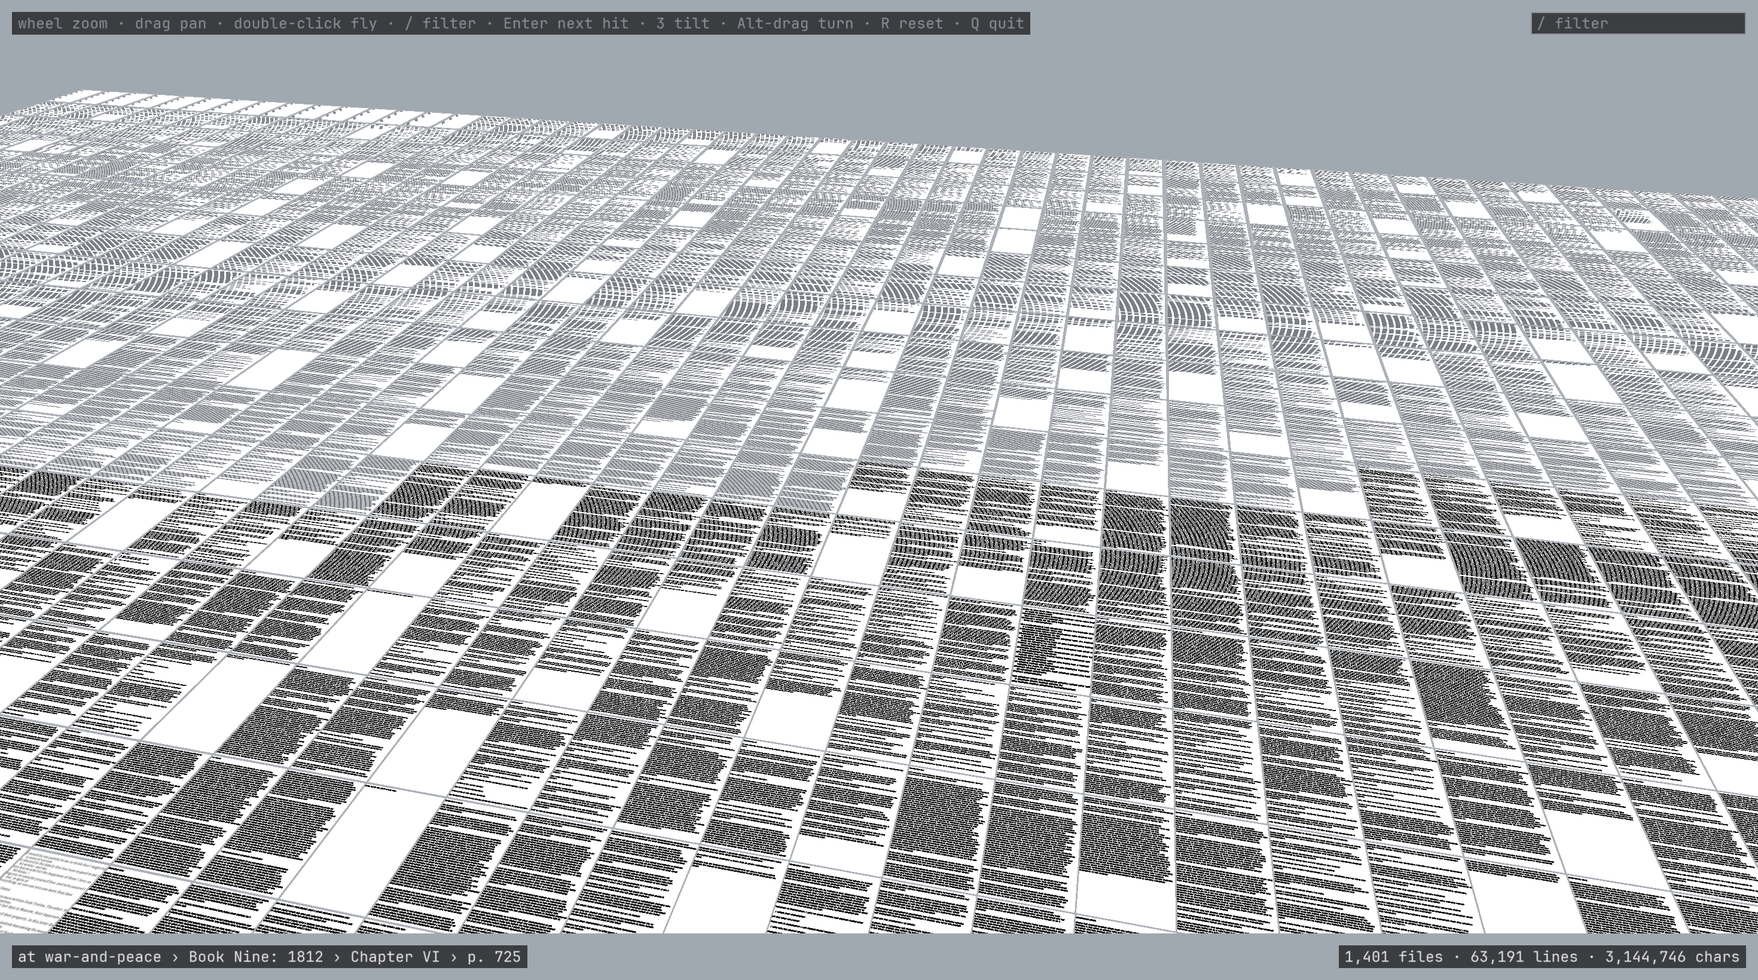
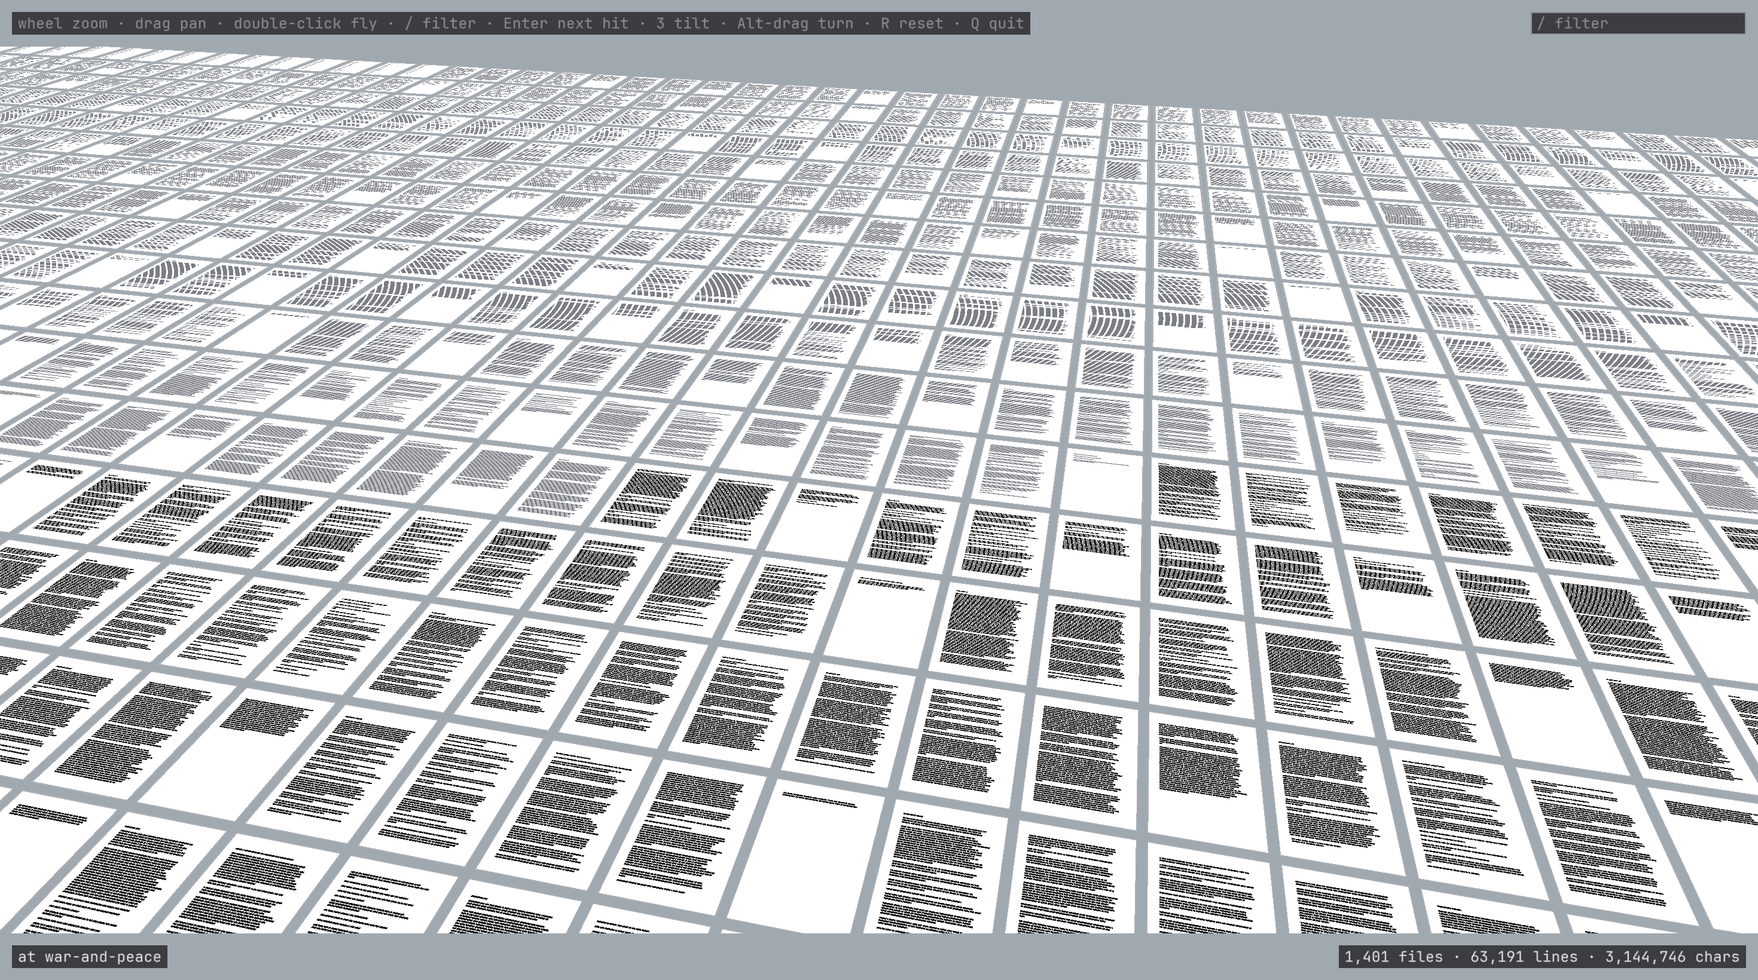
A book's pages sit in gutters and carry margins, as Dobbie's grid does
Every page of the flow grid sits in a gutter of 8 percent of its cell's width, and its text block is the page inset by a tenth of its width and 8 percent of its height; the page itself stays white. The layout writes the text block as file_text, the file itself for code, and the viewer's hover reads columns from it.

diff --git a/atlas_layout.py b/atlas_layout.py
@@ -27,6 +27,8 @@ import numpy as np
 WORLD_W = 1600.0
 PAD_FRAC, PAD_MIN, PAD_MAX = 0.015, 0.05, 4.0
 PAD_LINES, PAD_MIN_LINES = 2.0, 0.01   # a treemap directory's padding: about two of its own lines
+PAGE_GAP = 0.08            # a book's gutter between pages, as a fraction of the cell width, as Dobbie's grid
+PAGE_MARGIN = (0.10, 0.08) # a book page's inner margins, as fractions of the page's width and height
 AREA_PER_LINE = 34.0       # world area a line takes at pitch 1: p tall, about 60 characters of 0.57 p wide
 GAP = 0.06                 # column gap as a fraction of the column width
 MAX_COLS = 64
@@ -200,15 +202,20 @@ def book_flow(dirs, world, page_aspect):
     best = None
     for cols in range(1, max(n, 1) + 1):
         rows = -(-n // cols)
-        ratio = ((x1 - x0) / cols) / ((y1 - y0) / rows) / page_aspect
+        cw, ch = (x1 - x0) / cols, (y1 - y0) / rows
+        gap = PAGE_GAP * cw
+        if ch <= gap:                         # rows too short for a gutter: more columns
+            continue
+        ratio = (cw - gap) / (ch - gap) / page_aspect
         key = (ratio < 1, abs(math.log(ratio)))
         if best is None or key < best[0]:
             best = (key, cols, rows)
     _, cols, rows = best
     cw, ch = (x1 - x0) / cols, (y1 - y0) / rows
+    g = PAGE_GAP * cw / 2                     # half a gutter on every side of a page
     for k, f in enumerate(files):
         i, j = divmod(k, cols)
-        file_rect[f] = (x0 + j * cw, y0 + i * ch, x0 + (j + 1) * cw, y0 + (i + 1) * ch)
+        file_rect[f] = (x0 + j * cw + g, y0 + i * ch + g, x0 + (j + 1) * cw - g, y0 + (i + 1) * ch - g)
     return [root], np.zeros(n, np.int64), dir_rect, dir_pad, file_rect, cols
 
 
@@ -608,7 +615,8 @@ def build_layout(args, z, meta, t0):
     if flat:
         # a page cell's aspect: the book's line width by its fullest page
         page = (int(meta.get("page_lines", np.diff(file_line0).max())), float(np.percentile(line_w, 99.5)))
-        aspect_p = page[1] / (page[0] + 2)
+        mx, my = PAGE_MARGIN
+        aspect_p = page[1] / (page[0] + 2) * (1 - 2 * my) / (1 - 2 * mx)   # the page around its text block
         if args.book_layout == "parts":
             dir_rect, dir_pad, file_rect, book_cols = book_layout(dirs, world, aspect_p)
         else:
@@ -621,13 +629,19 @@ def build_layout(args, z, meta, t0):
     for d in range(1, n_dirs):
         dir_depth[d] = dir_depth[dirs[d]["parent"]] + 1
 
-    pitch, cols, rows, cap, colw, capw = layout_files(file_rect, file_line0, line_len, line_w,
+    # the text block: a book page's inner rectangle, the file itself for code
+    file_text = file_rect.copy()
+    if flat:
+        mx, my = PAGE_MARGIN
+        w, h = file_rect[:, 2] - file_rect[:, 0], file_rect[:, 3] - file_rect[:, 1]
+        file_text += np.stack([mx * w, my * h, -mx * w, -my * h], axis=1)
+    pitch, cols, rows, cap, colw, capw = layout_files(file_text, file_line0, line_len, line_w,
                                                       args.char_aspect, page, prop)
     if prop:
         # the exact wrap can take more rows than the estimate the pitch was
         # found with: lower the pitch of those files and wrap again until
         # every file's rows fit its columns
-        fh = file_rect[:, 3] - file_rect[:, 1]
+        fh = file_text[:, 3] - file_text[:, 1]
         for _ in range(8):
             line_row0, row_line, row_col0, row_len, row_first = wrap_rows_w(file_line0, line_off, char_w, line_w, capw, prop[1])
             need = -(-np.diff(line_row0[file_line0]).astype(np.int64) // cols)
@@ -643,7 +657,7 @@ def build_layout(args, z, meta, t0):
         char_x = None
         row_width = (np.minimum(row_len.astype(np.int64), cap[z["line_file"][row_line]].astype(np.int64)) * args.char_aspect).astype(np.float32)
     file_row0 = line_row0[file_line0]
-    row_pos = row_positions(file_rect, file_row0, pitch, rows, colw, row_first,
+    row_pos = row_positions(file_text, file_row0, pitch, rows, colw, row_first,
                             prop[1] if prop else HANG * args.char_aspect)
     row_indent = np.where(row_first, line_indent[row_line], 0)
     # items in rows: the first row of the start line to the first row of the end line
@@ -653,13 +667,14 @@ def build_layout(args, z, meta, t0):
     ge = file_line0[f].astype(np.int64) + np.minimum(z["item_end"].astype(np.int64), n_lines_f[f])
     s_row = line_row0[gs] - file_row0[f]
     e_row = line_row0[ge] - file_row0[f]
-    irect, iitem = item_rects(z["item_file"], s_row, e_row, file_rect, file_row0, pitch, rows, colw)
+    irect, iitem = item_rects(z["item_file"], s_row, e_row, file_text, file_row0, pitch, rows, colw)
 
     np.savez(os.path.join(args.atlas, "layout.npz"),
              world=world.astype(np.float64),
              dir_rect=dir_rect.astype(np.float64), dir_pad=dir_pad.astype(np.float64),
              dir_depth=dir_depth.astype(np.uint16), dir_hue=dir_hue.astype(np.uint8),
-             file_rect=file_rect.astype(np.float64), file_pitch=pitch.astype(np.float64),
+             file_rect=file_rect.astype(np.float64), file_text=file_text.astype(np.float64),
+             file_pitch=pitch.astype(np.float64),
              file_cols=cols.astype(np.uint16), file_rows=rows.astype(np.uint32),
              file_cap=cap.astype(np.uint16), file_colw=colw.astype(np.float64),
              file_hue=file_hue.astype(np.uint8), file_row0=file_row0.astype(np.uint32),

diff --git a/atlas_viewer.py b/atlas_viewer.py
@@ -1368,7 +1368,7 @@ class Viewer:
         if f is None:
             return None
         a = self.a
-        x0, y0 = a["file_rect"][f, :2]
+        x0, y0 = a.get("file_text", a["file_rect"])[f, :2]     # the text block: a book page's inner rectangle
         p, k, rows, colw = (float(a["file_pitch"][f]), int(a["file_cols"][f]),
                             int(a["file_rows"][f]), float(a["file_colw"][f]))
         n = int(a["file_row0"][f + 1] - a["file_row0"][f])

diff --git a/README.md b/README.md
@@ -122,7 +122,7 @@ Dobbie's example, War and Peace, needs nothing beyond the install: no submodule,
 ```
 
 1. `book_index.py` fetches Project Gutenberg ebook 2600 (3.4 MB) into `data/gutenberg/pg2600.txt` on the first run and reads it from there after, drops Gutenberg's header and footer, and splits the text on its headings: `BOOK ONE: 1805` and the two epilogues open a part, `CHAPTER I` a chapter, every 52 lines of a chapter are a page. It writes `data/war-and-peace_atlas/index.npz` and `index.json`, the same index a source tree gets, with parts as directories and pages as files named `Book One: 1805/Chapter I/p. 17`, and the book's scheme, Dobbie's colours, white pages, black text, grey bars, his demo's blue-grey ground, and its face, Literata; and prints the counts: 18 parts, 366 chapters, 1,401 pages, 2.63 million glyphs, half a second.
-2. `atlas_layout.py` sees `"corpus": "book"` in the index and lays the pages out in reading order instead of a treemap: one grid, as Dobbie's demo, every page one cell of one size, 58 pages across, the parts drawing nothing, and writes `layout.npz`, with lines as the book's one metric; `--book-layout parts` gives every part its own band of page rows instead. In 3D a book is one flat sheet, nothing extruded, the tilt just a way of looking at it. Add `--preview docs/shots/war-and-peace_layout.png` to render the result with Pillow without opening a window.
+2. `atlas_layout.py` sees `"corpus": "book"` in the index and lays the pages out in reading order instead of a treemap: one grid, as Dobbie's demo, every page one cell of one size in a gutter of 8 percent of its width, its text block inset by margins of a tenth of the page's width and 8 percent of its height, 60 pages across, the parts drawing nothing, and writes `layout.npz`, with lines as the book's one metric; `--book-layout parts` gives every part its own band of page rows instead. In 3D a book is one flat sheet, nothing extruded, the tilt just a way of looking at it. Add `--preview docs/shots/war-and-peace_layout.png` to render the result with Pillow without opening a window.
 3. `atlas_viewer.py` opens the book fitted to the window, its text in Literata at every size, glyphs placed by their own advances, and the hints and panel in the monospace face. Everything in Controls works: `/` filters (`Natasha` finds 1,213 mentions on 299 pages), Enter flies to the next hit, `3` tilts the sheet (a book has no heights in 3D), hover names the part, chapter and page under the cursor. There is no tint, since a book has no commits.
 
 The README's second image is the viewer scripted from the shell, and the opening pages are one flag away:
@@ -191,7 +191,7 @@ The tint over the fitted map: lines added and removed over the whole history, lo
 
 ### A book
 
-The same images for War and Peace, in `docs/shots/war-and-peace/`. The map fitted: one grid of 1,401 pages in reading order, 58 across, each page a cell of one size, a chapter's last page short.
+The same images for War and Peace, in `docs/shots/war-and-peace/`. The map fitted: one grid of 1,401 pages in reading order, 60 across, each page a white cell of one size in a grey gutter, a chapter's last page short.
 
 ![the book fitted](docs/shots/war-and-peace/overview.png)
 
@@ -212,7 +212,7 @@ How each stage is built is in [docs/DESIGN.md](docs/DESIGN.md). The short versio
 - **The scheme.** An index may carry a `scheme`: the ground, the page (the file fill), the bar colour, the ten kind colours, the five item colours, and a face under `fonts/`; the viewer takes what is given over the code atlas's defaults and hands the colours to the shaders as uniforms. The book's is Dobbie's demo: pages as white quads on a `#a0a9af` ground, text black, the bands in the ground's own colour so the parts draw nothing, and Literata for the face. His own face was Centaur, read from the embedded fonts of the demo's source PDF; Centaur is Monotype's, and Literata is the book serif made for reading on screens under the OFL.
 - **Proportional text.** When the face's advances differ, the layout measures every line in line heights by summing its glyphs' advances, sizes columns and wraps by width, and writes each glyph's x within its row (`char_x`) and each row's width; the viewer then draws the tokens and text LODs with one instanced quad per glyph (`shaders/glyph.glsl`) placed by that x and sized by its advance, from the same raster atlas and vector tier, and finds the glyph under the cursor or a hit by the same offsets. Bars, and every LOD of a monospace corpus, keep the per-line draw. Code stays on the monospace grid.
 - **The tint.** In a git checkout the index step runs one `git log --numstat` over the indexed directories (20 seconds for emscripten's 30,274 commits, under a second for big-text's), sums each file's lines added and removed, a rename counting as a removal and an addition, and writes the sums on a log scale to 0..1 as the tint, labelled `churn`. The viewer knows only that a leaf has a number in 0..1 and a label: it maps the number to ember over the file fill and shows the label in the status line. A book writes no tint.
-- **Layout.** `atlas_layout.py` is a squarified treemap over the directory tree with padding per level, sized to about two lines of the directory's own text, which the viewer draws as the directory band: a few pixels wide at most, so the bands stay thin at every zoom, a hairline at the fit and a gutter of two lines once the text is legible. Each file's area is its weight, tokens for code. Each file is wrapped into as many equal columns as keep a 90th-percentile line width readable; lines longer than a column wrap inside it, continuation rows hanging in by two characters. `tests/check_layout.py` checks the invariants. A book skips the treemap: one grid of pages in reading order, every page one cell of the size that lets one column hold the book's line width, so 58 pages across for War and Peace, and every page pitched as a full page so a short last page keeps its chapter's text size; `--book-layout parts` gives every part its own band of page rows instead.
+- **Layout.** `atlas_layout.py` is a squarified treemap over the directory tree with padding per level, sized to about two lines of the directory's own text, which the viewer draws as the directory band: a few pixels wide at most, so the bands stay thin at every zoom, a hairline at the fit and a gutter of two lines once the text is legible. Each file's area is its weight, tokens for code. Each file is wrapped into as many equal columns as keep a 90th-percentile line width readable; lines longer than a column wrap inside it, continuation rows hanging in by two characters. `tests/check_layout.py` checks the invariants. A book skips the treemap: one grid of pages in reading order, every page one cell of the size that lets one column hold the book's line width inside the page's margins, in a gutter, so 60 pages across for War and Peace, and every page pitched as a full page so a short last page keeps its chapter's text size; `--book-layout parts` gives every part its own band of page rows instead.
 - **The levels of detail.** Per frame the viewer computes device pixels per line for every file and picks a LOD: under 1, sampled one-pixel bars; 1 to 3, one grey bar per line from indent to length, with items as filled bands in their kind colour beneath; 3 to 6, one block per character in its kind colour plus item outlines; 6 and up, glyphs. The switches are hard cuts, as in the video. Everything is resident: characters and kinds as 8-bit textures, lines and files as float and integer textures, one instanced quad per line drawn per run of visible files.
 - **Glyphs.** `atlas_font.py` rasterises the 95 printable ASCII glyphs of a face into a mipmapped atlas; the line box is the face's ASCII ink extents rather than its OS/2 box, so a change of face does not change the proportions of the layout. A proportional face gets cells as wide as its widest glyph, each glyph drawn from the left, and its advances travel with the atlas; the UI always draws from the bundled monospace face's atlas. `vt_glyphs.py` builds the vector tier's data in Slug's form: quadratic outlines from fontTools as float32 control points in a curve texture, and per glyph horizontal and vertical bands over its ink box, each listing the curves that cross it sorted for the shader's early exit. `shaders/vt_glyph.glsl` is a GLSL translation of the reference pixel shader: the sign-bit root rule, two axis rays with a box filter, the weighted combination.
 - **Filter.** A whole-word regex over the corpus in a thread, chunked so the frame loop keeps running, with mentions inside comments and strings excluded. The panel lists the hits by file with the line each sits on, the status line counts hits and files, and stepping flies from one to the next.

diff --git a/docs/DESIGN.md b/docs/DESIGN.md
@@ -68,6 +68,7 @@ A file's rectangle is split into k equal columns with a gap of 6 percent of the 
 | dir_depth | uint16 | [n_dirs] | root is 0 |
 | dir_hue | uint8 | [n_dirs] | top-level child index mod 12 |
 | file_rect | float64 | [n_files, 4] | |
+| file_text | float64 | [n_files, 4] | the text block: the file inset by a book page's margins, the file itself for code |
 | file_pitch | float64 | [n_files] | line pitch in world units |
 | file_cols, file_rows, file_cap | uint16, uint32, uint16 | [n_files] | columns, rows per column, characters per column |
 | file_colw | float64 | [n_files] | column width including its gap |
@@ -134,7 +135,7 @@ The README's adapter split (a hierarchy, a layout, an aggregate colour per corpu
 
 `book_index.py` reads a Project Gutenberg plain text (`--gutenberg N` fetches `https://www.gutenberg.org/cache/epub/N/pgN.txt` into `data/gutenberg/` once) and writes the same `index.npz` + `index.json` as `atlas_index.py`, through the `write_index` function shared with stage 1. The hierarchy is parts over chapters over pages: a heading at column 0 such as `BOOK ONE: 1805`, `PART I` or `FIRST EPILOGUE: 1813 - 20` opens a part, `CHAPTER I` a chapter, and every `--page-lines` (52) lines of a chapter are one page, numbered through the book (`Book One: 1805/Chapter I/p. 17`); a page never starts with a blank line, runs of blank lines are squeezed to one, a chapter ends its last page early. The contents listing indents its copies of every heading, which is what keeps it out of the structure. The parts are the directories (18 with the front matter) and the pages the files; chapters are in the page paths only, so the layout is a grid of pages per part, as printed, and the hover label carries the chapter. Gutenberg's header and footer, outside the `*** START` and `*** END` lines, are dropped. A text with no heading at all is one part named after the corpus, its pages `name/p. N`, so any plain text file is a book. Text is kept on Gutenberg's own line breaks (72 columns, 85 at most) and normalised to ASCII: curly quotes straight, the em dash `--`, accents stripped by NFKD decomposition (Natásha to Natasha), the rest `?`; the whole book fits Windows-1252, so one byte per character would hold the accents once the glyph tiers cover more than 32 to 126 (README, open question 2). A `prose` tokenizer spec gives words the ident kind and numbers the number kind, with no string literals (a line of dialogue is not a string) and no items. The index carries the book's scheme, taken from Dobbie's demo: pages as white quads, text black, on the `#a0a9af` ground his page clears to, the bands in that ground colour so nothing marks a part but the crumb trail; the face of his demo came from the source PDF and is not recorded anywhere reachable, and the book's face is Literata, the OFL book serif, proportional, through the width-based layout and the per-glyph draw described under the stages above. War and Peace: 18 parts, 366 chapters, 1,401 pages, 63,191 lines, 3.14 M characters, 2.63 M glyphs, 0.46 s; Dobbie's reflowed pages numbered 1,273.
 
-`atlas_layout.py` reads `"corpus": "book"` and `"page_lines"` from the index and skips the treemap. The default, `book_flow`, is one grid of every page in reading order, as Dobbie's demo: the layout's tree is the root alone, the parts draw nothing, 58 pages across for War and Peace. `--book-layout parts` keeps the earlier `book_layout`: every part a full-width band of whole page rows stacked in reading order, every page one cell of one size, rows filled left to right, a part's last row short. The column count is the one that brings a cell closest to the page aspect (the book's 99.5th-percentile line width times the character aspect, over the page's lines plus two) from the wide side, so a page's single column always holds its lines: 65 across for War and Peace, 16 wrapped rows in the whole book (the few lines past 73 columns). `layout_files` takes a `page` argument that pitches every file as a full page aimed at the book's line width, so a short last page keeps its chapter's text size and no page splits into columns. A book's weight is lines, so every page is one cell whatever its length, and its layout declares itself flat: in 3D nothing rises, the tilted view is the sheet in perspective. The code rule, a file's height as the square root of its weight and a terrace per directory level, made the book a city of near-equal blocks under tokens and a plateau with dips at chapter ends under lines, and equal heights still left the Books as terraces; a book is one sheet. The strip treemap (Bederson et al.) was tried first with chapters as directories and rejected: pages came out at every size and shape, which is the code map's look, not a book's. The empty end of each band is the price of parts as rectangles; letting a part start mid-row would make it a non-rectangle, which nothing in the viewer draws.
+`atlas_layout.py` reads `"corpus": "book"` and `"page_lines"` from the index and skips the treemap. The default, `book_flow`, is one grid of every page in reading order, as Dobbie's demo: the layout's tree is the root alone, the parts draw nothing, every page sits in a gutter of 8 percent of the cell's width, and its text block is the page inset by margins of a tenth of its width and 8 percent of its height (`file_text` in the layout, the file itself for code; the viewer's hover reads from it), 60 pages across for War and Peace. `--book-layout parts` keeps the earlier `book_layout`: every part a full-width band of whole page rows stacked in reading order, every page one cell of one size, rows filled left to right, a part's last row short. The column count is the one that brings a cell closest to the page aspect (the book's 99.5th-percentile line width times the character aspect, over the page's lines plus two) from the wide side, so a page's single column always holds its lines: 65 across for War and Peace, 16 wrapped rows in the whole book (the few lines past 73 columns). `layout_files` takes a `page` argument that pitches every file as a full page aimed at the book's line width, so a short last page keeps its chapter's text size and no page splits into columns. A book's weight is lines, so every page is one cell whatever its length, and its layout declares itself flat: in 3D nothing rises, the tilted view is the sheet in perspective. The code rule, a file's height as the square root of its weight and a terrace per directory level, made the book a city of near-equal blocks under tokens and a plateau with dips at chapter ends under lines, and equal heights still left the Books as terraces; a book is one sheet. The strip treemap (Bederson et al.) was tried first with chapters as directories and rejected: pages came out at every size and shape, which is the code map's look, not a book's. The empty end of each band is the price of parts as rectangles; letting a part start mid-row would make it a non-rectangle, which nothing in the viewer draws.
 
 The viewer needed one fix: `--goto` split its argument at the first colon, and a book's paths hold colons (`Book One: 1805/...`); it now splits at the last colon and only when a line number follows. The frame loop measured 2.4 ms mean over the scripted zoom (9.1 MB on the GPU). Screenshots and their commands are in `docs/shots/README.md`, the hero (3D at 3 px per line about page 481) is the README's second image.
 

diff --git a/docs/shots/README.md b/docs/shots/README.md
@@ -51,7 +51,7 @@ The line numbers in the `--goto` and `--hover` commands are the ones that held w
 
 - `big-text_layout.png`: the layout stage's own render of big-text (29 files, about 7,200 lines): the `docs/`, `tests/` and `shaders/` bands, files as 1 px outlines wrapped into columns, one grey bar per line from indent to length.
 - `emscripten_layout.png`: the same for the whole emscripten tree (11,495 files, 2.80 million lines, 698 directories): nested directory bands in the top-level hue, `test/` and `system/` the largest, big files wrapped into up to 64 columns, tiny files as slivers.
-- `war-and-peace_layout.png`: the book: one grid of 1,401 pages in reading order, 58 across, one grey bar per line, a chapter's last page short.
+- `war-and-peace_layout.png`: the book: one grid of 1,401 pages in reading order, 60 across, in gutters, one grey bar per line, a chapter's last page short.
 
 ## big-text (its own source: 29 files, about 7,200 lines)
 
